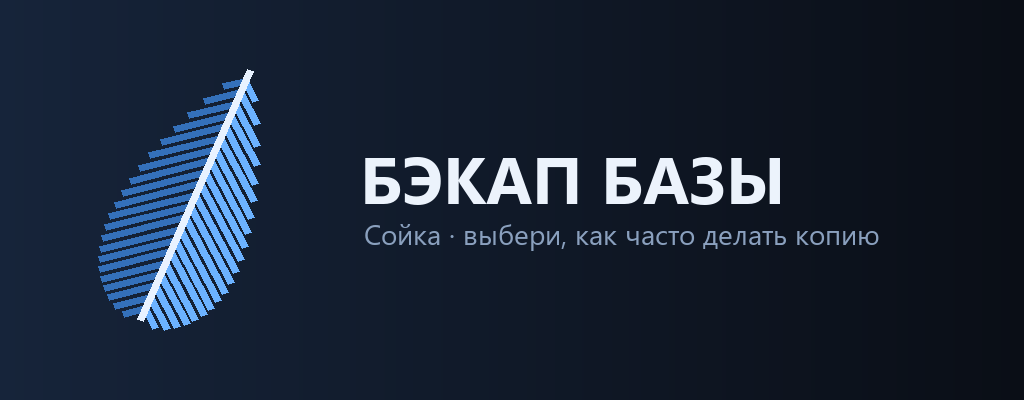
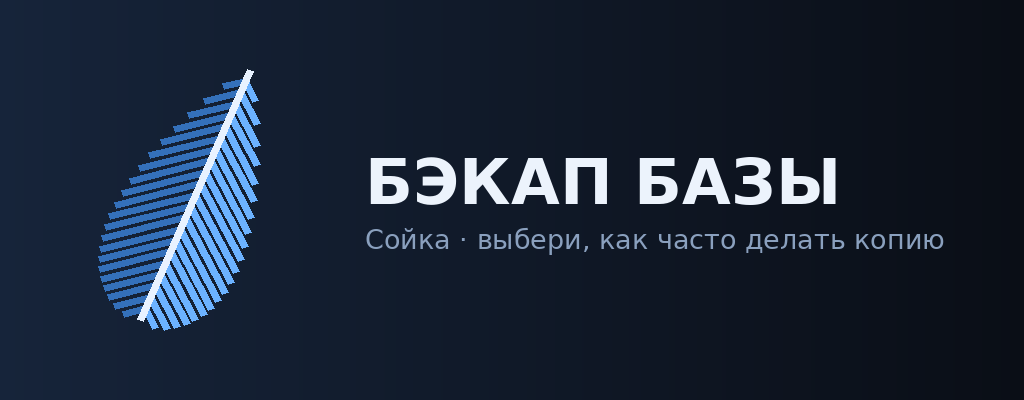
Баннеры перерисованы: свой у каждого модуля, без чужих юзерботов
- с приветственного баннера убрана строка «наследник Hikka · Telethon +
  aiogram» — на картинках больше нет упоминаний других юзерботов
- весь набор перерисован из одной подложки (градиент и перо), поэтому
  баннеры выглядят как одна семья, а не как разнобой
- баннеры появились у всех четырнадцати модулей: Инфо, Справка,
  Загрузчик, Настройки, Конфиг, Бот, Логи, Бэкап, Обновление, Eval,
  Терминал, Безопасность, ID, Заметки — заголовок картинки совпадает с
  названием модуля в .help
- модули получили «# meta banner:», так что баннер показывается в
  .help <модуль> и в карточке установки
- .info по умолчанию берёт свой баннер вместо общего приветственного
- assets/make_banners.py — генератор набора, правится одной строкой
- версия 1.4.0

Claude-Session: https://claude.ai/code/session_019yLZq7mkHEdvaNnMSdL4Ys

Changed region(s): [[0.3438, 0.39, 0.8438, 0.51], [0.3438, 0.57, 0.9375, 0.63]]

diff --git a/assets/make_banners.py b/assets/make_banners.py
@@ -1,0 +1,119 @@
+"""Генератор баннеров Сойки.
+
+Все баннеры собираются из одной подложки ``_banner_base.png`` (градиент и перо),
+поэтому набор всегда выглядит как одна семья. Поменял строку в ``BANNERS`` —
+перегенерировал:
+
+    python assets/make_banners.py
+
+Нужен только Pillow: ``pip install pillow``.
+"""
+
+from __future__ import annotations
+
+from pathlib import Path
+
+from PIL import Image, ImageDraw, ImageFont
+
+ASSETS = Path(__file__).resolve().parent
+BASE = ASSETS / "_banner_base.png"
+
+BOLD = "/usr/share/fonts/truetype/dejavu/DejaVuSans-Bold.ttf"
+REGULAR = "/usr/share/fonts/truetype/dejavu/DejaVuSans.ttf"
+
+#: Левый край текста — правее пера
+LEFT = 365
+#: Сколько места остаётся до правого края
+LIMIT = 1024 - LEFT - 45
+
+TITLE_COLOR = (236, 243, 252)
+SUBTITLE_COLOR = (138, 160, 190)
+
+#: (файл, заголовок, подпись, высота заглавных букв заголовка)
+#: Заголовок совпадает с названием модуля в .help — так баннер и раздел
+#: читаются как одно целое
+BANNERS: list[tuple[str, str, str, int]] = [
+    ("welcome_banner", "СОЙКА", "модульный юзербот для Telegram", 60),
+    ("info_banner", "ИНФО", "версия, аптайм и нагрузка", 48),
+    ("help_banner", "СПРАВКА", "все модули и команды", 48),
+    ("loader_banner", "ЗАГРУЗЧИК", "установка и выгрузка модулей", 48),
+    ("settings_banner", "НАСТРОЙКИ", "префикс, алиасы и язык", 48),
+    ("config_banner", "КОНФИГ", "настройки модулей кнопками", 48),
+    ("bot_banner", "БОТ", "меню, аватарка и токен", 48),
+    ("logs_banner", "ЛОГИ", "журнал работы и канал с логами", 48),
+    ("backup_banner", "БЭКАП БАЗЫ", "выбери, как часто делать копию", 48),
+    ("update_banner", "ОБНОВЛЕНИЕ", "вышла новая версия", 48),
+    ("security_banner", "БЕЗОПАСНОСТЬ", "кому и какие команды разрешены", 48),
+    ("terminal_banner", "ТЕРМИНАЛ", "команды системы с живым выводом", 48),
+    ("eval_banner", "EVAL", "выполнить Python-код прямо из чата", 48),
+    ("notes_banner", "ЗАМЕТКИ", "короткие записи в базе юзербота", 48),
+    ("id_banner", "ID", "айди чата, сообщения и пользователя", 48),
+]
+
+
+def fit_by_cap(path: str, sample: str, cap: int) -> ImageFont.FreeTypeFont:
+    """Шрифт такого размера, чтобы заглавная буква была нужной высоты."""
+    best = min(
+        range(20, 140),
+        key=lambda size: abs(_cap_height(ImageFont.truetype(path, size), sample) - cap),
+    )
+    return ImageFont.truetype(path, best)
+
+
+def _cap_height(font: ImageFont.FreeTypeFont, sample: str) -> int:
+    box = font.getbbox(sample)
+    return box[3] - box[1]
+
+
+def shrink_to_fit(font: ImageFont.FreeTypeFont, text: str, limit: int) -> ImageFont.FreeTypeFont:
+    """Длинная строка не должна вылезать за правый край."""
+    while font.size > 12:
+        box = font.getbbox(text)
+
+        if box[2] - box[0] <= limit:
+            break
+
+        font = ImageFont.truetype(font.path, font.size - 1)
+
+    return font
+
+
+def draw_line(draw: ImageDraw.ImageDraw, text: str, font, top: int, fill) -> None:
+    """Рисуем так, чтобы чернила начинались ровно в (LEFT, top)."""
+    box = font.getbbox(text)
+    draw.text((LEFT - box[0], top - box[1]), text, font=font, fill=fill)
+
+
+def build(name: str, title: str, subtitle: str, cap: int) -> Path:
+    image = Image.open(BASE).convert("RGB")
+    draw = ImageDraw.Draw(image)
+
+    hero = cap > 50
+
+    # На главном баннере имя стоит в заголовке, на остальных — в подписи
+    if not hero:
+        subtitle = f"Сойка · {subtitle}"
+
+    title_font = shrink_to_fit(fit_by_cap(BOLD, "О", cap), title, LIMIT)
+    subtitle_font = shrink_to_fit(fit_by_cap(REGULAR, "С", 20), subtitle, LIMIT)
+
+    # Заголовок покрупнее — опускаем пару строк ниже, чтобы блок остался по центру
+    title_top = 150 if hero else 157
+    subtitle_top = title_top + cap + 22
+
+    draw_line(draw, title, title_font, title_top, TITLE_COLOR)
+    draw_line(draw, subtitle, subtitle_font, subtitle_top, SUBTITLE_COLOR)
+
+    path = ASSETS / f"{name}.png"
+    image.save(path, optimize=True)
+    return path
+
+
+def main() -> None:
+    for name, title, subtitle, cap in BANNERS:
+        path = build(name, title, subtitle, cap)
+        print(f"{path.name:20} {title} · {subtitle}")
+
+
+if __name__ == "__main__":
+    main()

diff --git a/soika/modules/info.py b/soika/modules/info.py
@@ -1,5 +1,7 @@
 """Карточка юзербота: версия, аптайм, нагрузка — и баннер над ней."""
 
+# meta banner: https://raw.githubusercontent.com/zfd430792-coder/soika/main/assets/info_banner.png
+
 import time
 
 from .. import loader, utils
@@ -8,7 +10,7 @@ from ..version import BRAND, BRAND_EMOJI, DEFAULT_REPO, __version_str__
 #: Баннер над .info по умолчанию. Годится любая ссылка на картинку, гифку или
 #: mp4 — Telegram сам решит, показать это фото или анимацию.
 DEFAULT_BANNER = (
-    "https://raw.githubusercontent.com/zfd430792-coder/soika/main/assets/welcome_banner.png"
+    "https://raw.githubusercontent.com/zfd430792-coder/soika/main/assets/info_banner.png"
 )
 
 

diff --git a/soika/modules/id.py b/soika/modules/id.py
@@ -1,5 +1,7 @@
 """Показывает ID чата, пользователя и сообщения."""
 
+# meta banner: https://raw.githubusercontent.com/zfd430792-coder/soika/main/assets/id_banner.png
+
 # meta developer: @soika
 # meta description: ID чата, пользователя и сообщения одной командой
 

diff --git a/soika/modules/config.py b/soika/modules/config.py
@@ -1,5 +1,7 @@
 """Редактор настроек модулей — с кнопками, прямо в чате."""
 
+# meta banner: https://raw.githubusercontent.com/zfd430792-coder/soika/main/assets/config_banner.png
+
 from .. import loader, utils
 from ..inline.types import InlineCall
 from ..validators import ValidationError

diff --git a/soika/modules/notes.py b/soika/modules/notes.py
@@ -1,5 +1,7 @@
 """Быстрые заметки прямо в Telegram."""
 
+# meta banner: https://raw.githubusercontent.com/zfd430792-coder/soika/main/assets/notes_banner.png
+
 # meta developer: @soika
 # meta description: Заметки: добавить, посмотреть списком, удалить
 

diff --git a/soika/modules/settings.py b/soika/modules/settings.py
@@ -1,5 +1,7 @@
 """Настройки юзербота: префикс, алиасы, язык, сообщение при запуске."""
 
+# meta banner: https://raw.githubusercontent.com/zfd430792-coder/soika/main/assets/settings_banner.png
+
 from .. import loader, utils
 
 SETTINGS = "soika.settings"

diff --git a/soika/modules/backup.py b/soika/modules/backup.py
@@ -4,6 +4,8 @@
 или при первом запуске, когда Сойка сама спрашивает, когда бэкапить.
 """
 
+# meta banner: https://raw.githubusercontent.com/zfd430792-coder/soika/main/assets/backup_banner.png
+
 import asyncio
 import contextlib
 import io

diff --git a/soika/modules/updater.py b/soika/modules/updater.py
@@ -1,5 +1,7 @@
 """Обновление из git, перезапуск и уведомления о новых версиях."""
 
+# meta banner: https://raw.githubusercontent.com/zfd430792-coder/soika/main/assets/update_banner.png
+
 import asyncio
 import contextlib
 import logging

diff --git a/soika/modules/bot.py b/soika/modules/bot.py
@@ -1,5 +1,7 @@
 """Собственный бот Сойки: меню в личке и управление ботом."""
 
+# meta banner: https://raw.githubusercontent.com/zfd430792-coder/soika/main/assets/bot_banner.png
+
 import asyncio
 import contextlib
 import logging

diff --git a/soika/modules/logs.py b/soika/modules/logs.py
@@ -1,5 +1,7 @@
 """Логи: файлом по команде и потоком в служебный канал."""
 
+# meta banner: https://raw.githubusercontent.com/zfd430792-coder/soika/main/assets/logs_banner.png
+
 import contextlib
 import io
 import logging

diff --git a/soika/modules/security_mod.py b/soika/modules/security_mod.py
@@ -1,5 +1,7 @@
 """Кто может выполнять команды: sudo, support и маски прав."""
 
+# meta banner: https://raw.githubusercontent.com/zfd430792-coder/soika/main/assets/security_banner.png
+
 from .. import loader, security, utils
 
 

diff --git a/soika/modules/loader_mod.py b/soika/modules/loader_mod.py
@@ -1,5 +1,7 @@
 """Установка, обновление и выгрузка модулей."""
 
+# meta banner: https://raw.githubusercontent.com/zfd430792-coder/soika/main/assets/loader_banner.png
+
 import aiohttp
 
 from .. import loader, utils
